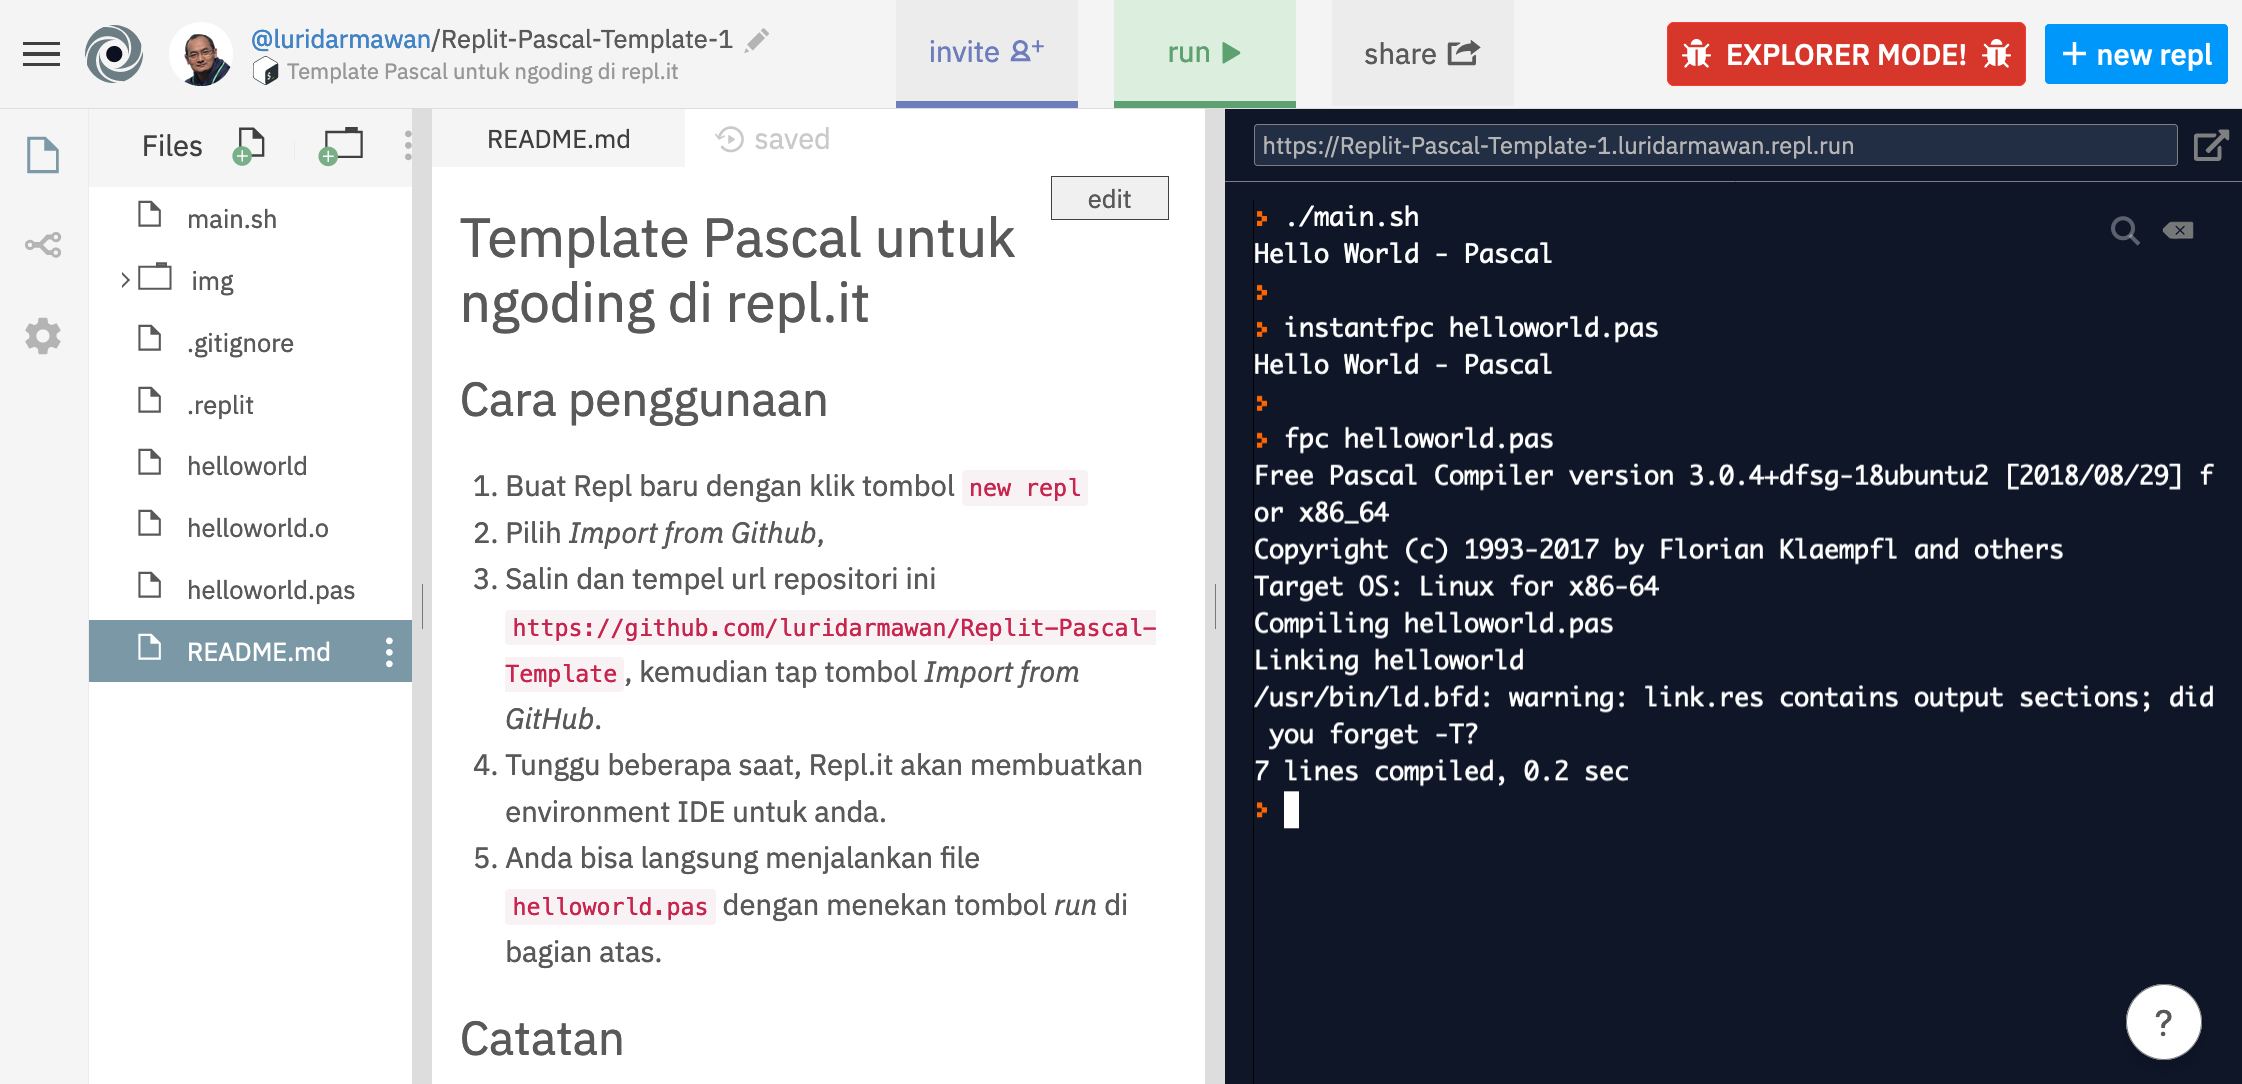
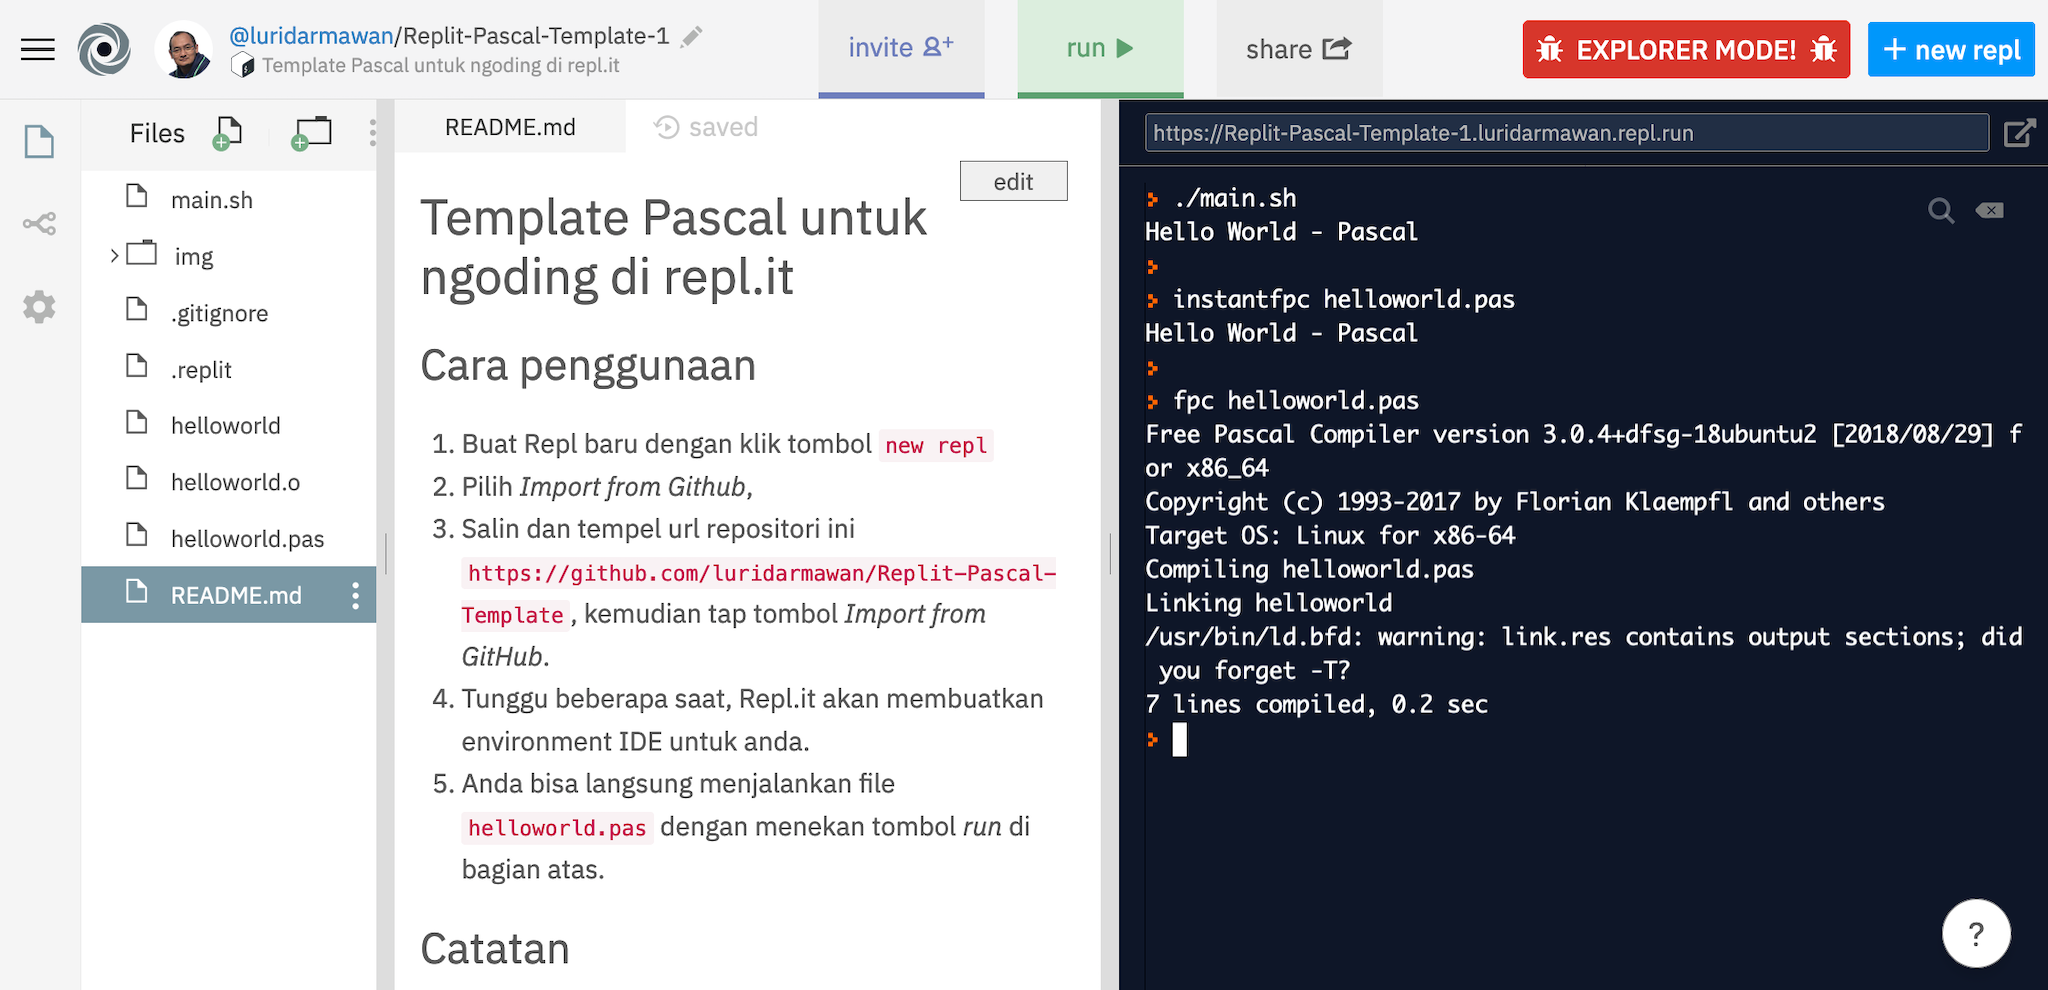
resize image

diff --git a/README.md b/README.md
@@ -4,7 +4,7 @@
 
 ## Cara penggunaan
 
-1. Buat Repl baru dengan klik tombol `new repl` ![import](img/btn-newrepl.png)
+1. Buat Repl baru dengan klik tombol `new repl`
 2. Pilih *Import from Github*,
 3. Salin dan tempel url repositori ini `https://github.com/luridarmawan/Replit-Pascal-Template`, kemudian tap tombol *Import from GitHub*. ![import](img/import.png)
 4. Tunggu beberapa saat, Repl.it akan membuatkan environment IDE untuk anda.
